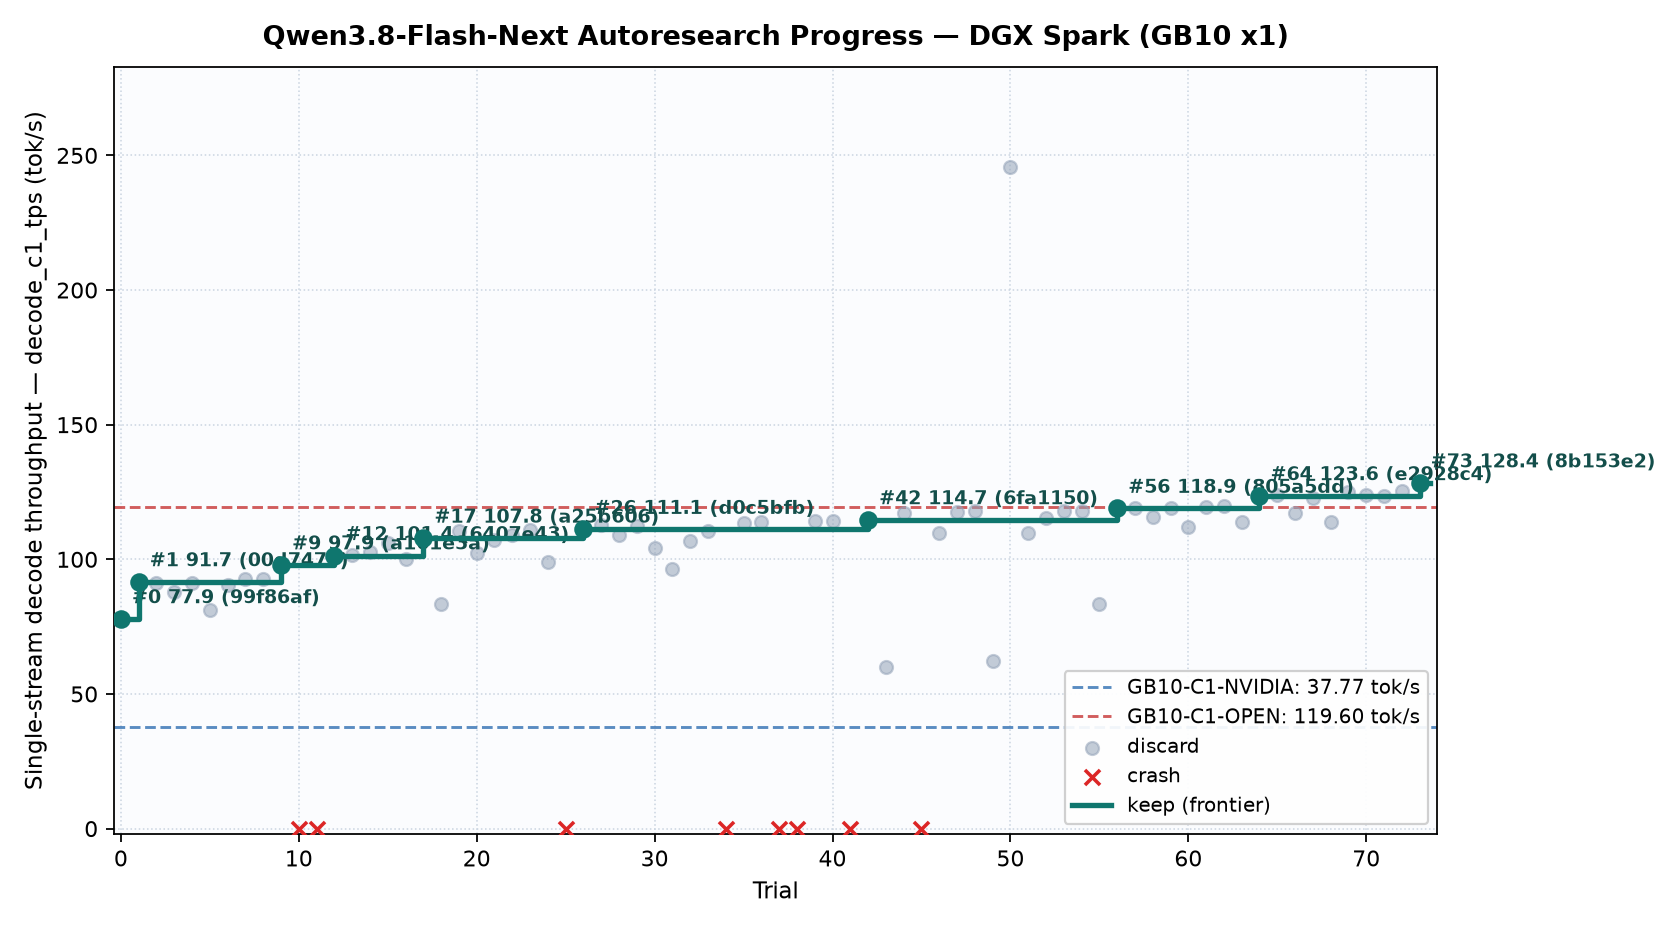
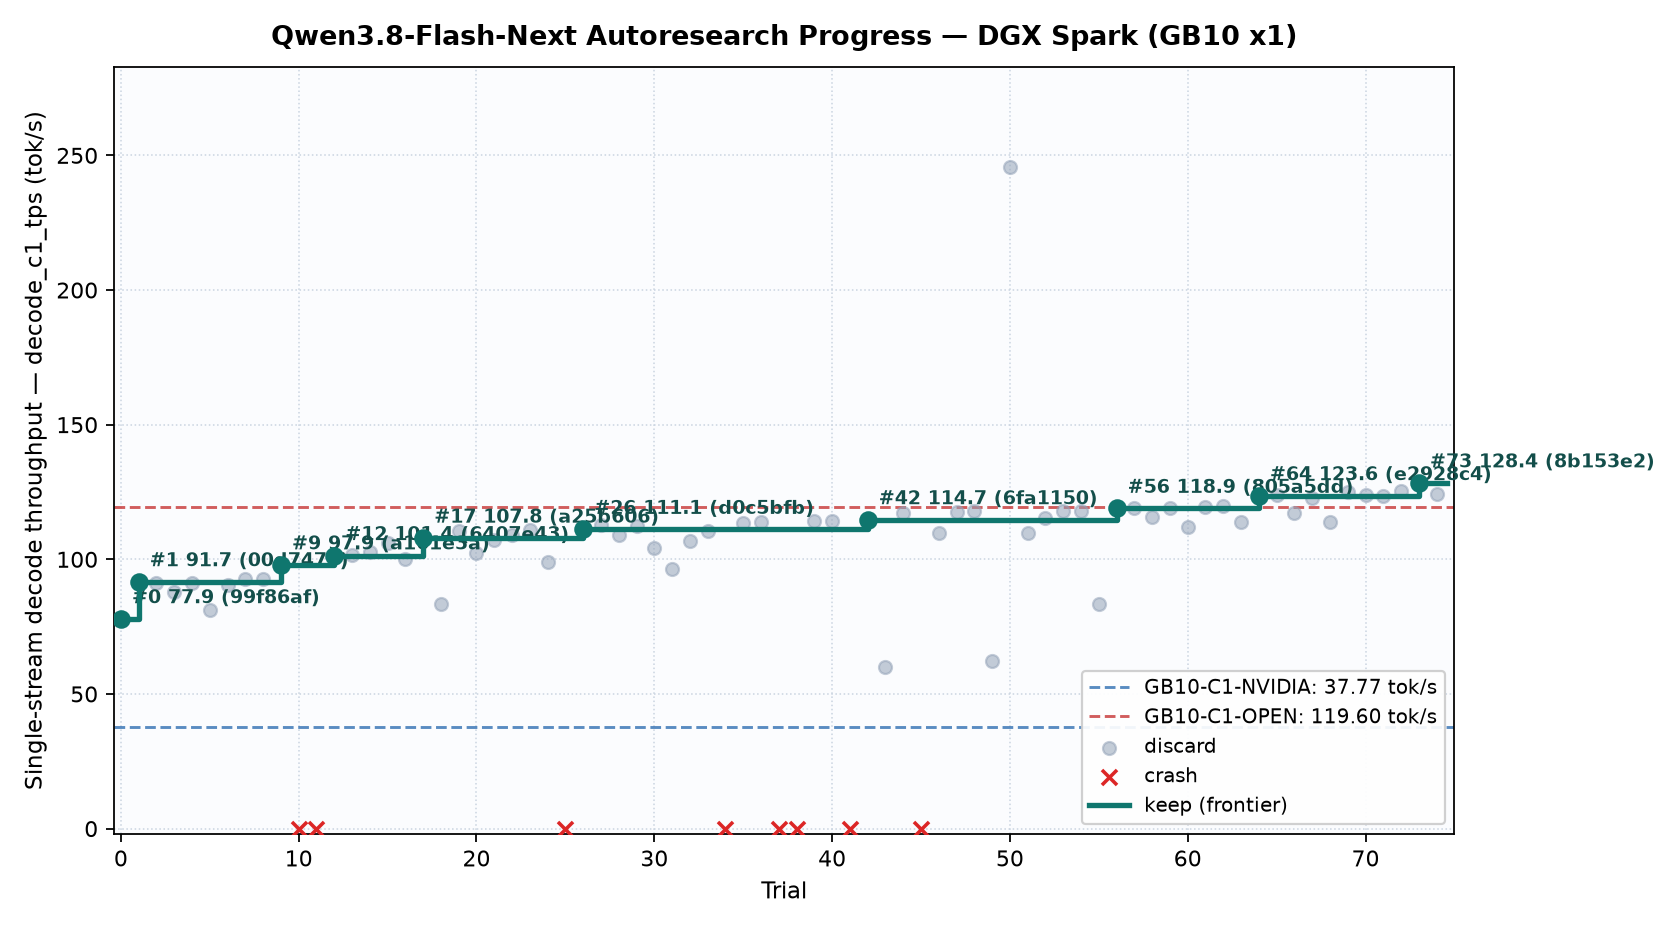
spark trial 74: discard

diff --git a/records/research-log.md b/records/research-log.md
@@ -103,3 +103,4 @@ Deprioritized: **3-bit expert weights** (Hibana +43% but GPQA -0.3, LCB -2.3; on
 | 2026-11-21 04:23 | 71 (new stack) | <https://github.com/vllm-project/vllm/commit/664dfcd4>, <https://github.com/sgl-project/sglang/commit/2b248971>, <https://github.com/NVIDIA/TensorRT-LLM/commit/86852b24>, <https://github.com/ggml-org/llama.cpp/commit/374d90a9>, <https://github.com/ashhart/TensorFold/commit/9ba855b3> | Six-engine check (`vllm` `664dfcd4`/`0e1d945b`, `sglang` `2b248971` `#46210` EAGLE draft capture checks, `TensorRT-LLM` `86852b24`/`257899b7`, `llama.cpp` `374d90a9`/`98709fd8`, `TensorFold` `9ba855b3`, `hibana` `d474b74d`): Trial 70 (`-t70`, `hash_match=1`) cut `code-c1` rounds `46->43` (`-6.5%`) and `nsys` proved our bit-exact tree verify kernels add `<0.09 ms/rd` (`fn_gdn_rows_late_tree` +2 us, `fn_attn_fused_ahead_gate_tree_paged` ~0 us, path compaction 19 us), while fixed `STOP_THR=0.20`/`LEAF_THR=0.18`/`B2_THR=0.20` over-drafted high-acc rounds (`467->529` drafts, undoing Trial 64's renewal stop `dyn_thr ~ 0.65`) and added Branch-2 `forwardHead`+`streamSync` overhead; pricing zero-MTP-cost `stop_token` and top-2 sibling leaves via the exact live round renewal rate `R_cur = (1+E_tot)/C_tot` (`c_ver/(c_ver+c_mtp) ~ 0.64/0.52` + zero-cost `BM=16` leaf swap + `STOP_ALPHA=3.5`, `TREE_MODE=1` zero extra MTP steps) beat Trial 69 across 6 diverse coding prompts (`ALL6 89.50->92.34` `+3.17%`, `HI3 100.14->103.95` `+3.80%`, `r=473->435` `-8.0%`, `p5 122.6->127.7` `+4.2%`, 100% identical SHAs). | Adopted in trial 71 (`-t71`): renewal-coupled speculative tree proposer (`R_cur=(1+E_tot)/C_tot`, `TREE_MODE=1`, `STOP_ALPHA=3.5`, `STOP_MULT=0.64`, `STOP_THR=0.18`, `LEAF_MULT=0.52`, `LEAF_THR=0.16`, `LEAF_SWAP=1.02`) on `-t70` bit-exact tree engine (`hash_match=1`). |
 | 2026-11-21 07:41 | 72 (new stack) | <https://github.com/vllm-project/vllm/commit/77c887b4>, <https://github.com/sgl-project/sglang/commit/a034bb57>, <https://github.com/NVIDIA/TensorRT-LLM/commit/15419029>, <https://github.com/ggml-org/llama.cpp/commit/91979450>, <https://github.com/ashhart/TensorFold/commit/87c41b05> | Six-engine check (`vllm` `77c887b4`, `sglang` `84c9e767`/`a034bb57` `#51676` dflash megakernel, `TensorRT-LLM` `15419029`, `llama.cpp` `91979450`, `TensorFold` `87c41b05`, `hibana` `d474b74d`): Warmed `nsys` critical-path audit of Trial 69 (`-t69`, `125.05` C1) exposed four pure 100% bit-exact hardware wins (while rejecting pruned `W1g64` `-1.8%..-31%`, suffix-copy ext/root/graft `-0.8%`, `MTP_TOPK<10` `-0.5%..-6.5%`, `SHARED_EARLY=1` `-0.3%`, and `MTP_NVFP4=fch` `+4` rounds via bracketed ABBA): (1) `topk_fast` (`tf_route_topk_plan_512`, `70.5 ms` crit -> `1.91x` faster `16.34->8.56 us` `diffs=0` via pre-wait `sh_cnt` clear, unrolled `RSK==4`, per-lane top-1 cache, parallel `tf_exp` with exact-order `__fadd_rn`, and packed `u64` prefix scan); (2) direct `keep.proj` write from `in_proj` + fused pre-wait `61.4 KB` `keep.hist` copy in `fn_gdn_front_log` eliminating `72` `cuMemcpyDtoD` calls/round (`~18 MB/rd`) and the `2.7 us x 36` PDL break; (3) state-first PDL in `fn_gdn_rows_late` prefetching `3.15 MB` `state_in` before `griddepcontrol.wait`; (4) `tf_qmmf_bf11_hc_upmix_16` `STAGES=3` (`20,352B` SMEM, `24.40 vs 25.07 us`). Bracketed 6-config ABBA vs `-t69`: `ALL5 21.704->21.376s` (`+1.53%`, `91.92->93.33`), `HI3 106.77->108.12`, `p4 118.9->120.8` (`-52 ms`), `C4 139.72->141.53` (`+1.30%`), 100% identical SHAs and rounds (`r=380`). | Adopted in trial 72 (`-t72d` on `-t69` base): `topk_fast`, direct `keep.proj` + fused pre-wait `keep.hist`, state-first GDN PDL, `bf11_hc_upmix_16 STAGES=3` (`SHARED_EARLY=0`, `GDN_DIRECT_KEEP=1`, `MTP_NVFP4=0`, `hash_match=1`). |
 | 2026-11-21 08:57 | 73 (new stack) | <https://github.com/vllm-project/vllm/commit/c98006ee>, <https://github.com/sgl-project/sglang/commit/9caefef2>, <https://github.com/NVIDIA/TensorRT-LLM/commit/fc489fc6>, <https://github.com/ggml-org/llama.cpp/commit/29b52d39>, <https://github.com/ashhart/TensorFold/commit/46c6ee22> | Six-engine check (`vllm` `c98006ee`, `sglang` `9caefef2`/`e7c382c1` `#50195` FP4 MoE, `TensorRT-LLM` `fc489fc6`/`752e6b37`, `llama.cpp` `29b52d39`/`e3c3f666`, `TensorFold` `46c6ee22`/`b904f972`, `hibana` `d474b74d`): Trial 72 (`-t72d`) set all-time bit-exact records (`c1=125.37`, `ttft=0.152`, `hash_match=1`); `nsys` `qmmf_kernel` shape audit exposed MTP `M=1` `INT6`/`MXFP8` projections (`q_proj`, `o_proj`, `fc_embed`, `shared_gu/down`, `hc.down`, `mixer.down`) running `BM=16 ST=4` split-K MMA + `reduce_kernel` at `40-165 GB/s`, while `fn_w2_rescore_best` ran 64 BF16 rescores on 1 CTA (`30.6 us x 451`). Component-isolated 7-config ABBA on exact `ROUTER_BF12=0` (`hash_match=1`) SHAs rejected unsorted Two-Tier `W1g64` (`+19..+22` rds), 1-warp `BF11` sequential router (`+578 ms`, 0 ULP diff), `MTP_S5=1` (`+58 ms`), and `MTP_ATTN_SK=4/8` (`+20 ms`), while proving cooperative weights-first-PDL zero-`I2F` (`0x43000000u`) in-CTA split-K `M=1` GEMV (`1x8` for `N<512` `hc.down`/`mixer.down` `-79 ms`, `1x4` for `512<=N<=4096`, `4x1` for `N>4096` `q_proj` `-208 ms`) + 64-CTA parallel `TF_FLASHNEXT_W2_MULTI=1` sweeps all 5 prompts (`ALL5 22.594->22.404s` `-190 ms`, `HI3 100.51->102.21` `+1.69%`, `p4 3.244->3.222s` on identical `r=49`, 100% exact SHAs). | Adopted in trial 73 (`-t73` on `-t72d` base): cooperative zero-`I2F` in-CTA split-K `M=1` `INT6`/`MXFP8` GEMV (`TF_QMMF_M1_GEMV=2`, `1x8`/`1x4`/`4x1`, `MIN_N=64`, `MAX_N=16384`) + 64-CTA `TF_FLASHNEXT_W2_MULTI=1` (`ROUTER_BF11=0`, `MTP_S5=0`, `MTP_ATTN_SK=0`, `hash_match=1`). |
+| 2026-11-21 11:17 | 74 (new stack) | <https://github.com/vllm-project/vllm/commit/2f170a0f>, <https://github.com/sgl-project/sglang/commit/5b03592a>, <https://github.com/NVIDIA/TensorRT-LLM/commit/ea1090d4>, <https://github.com/ggml-org/llama.cpp/commit/29b52d39>, <https://github.com/ashhart/TensorFold/commit/37fa51d2> | Six-engine check (`vllm` `2f170a0f` `#69023` DSpark MoE, `sglang` `5b03592a` `#51961` vocab-tiled block-verify / `fadfdc42`, `TensorRT-LLM` `ea1090d4` `#22698`, `llama.cpp` `29b52d39`/`e3c3f666`, `TensorFold` `37fa51d2`, `hibana` `d474b74d`): Trial 73 (`-t73`) won `keep` at `128.37 tok/s` (`+3.85%`, `c4=175.94`, `c8=236.76`, `92.75 GiB`, `hash_match=1`), and `nsys --cuda-graph-trace=node` (`98.55%` GPU busy) showed the entire MTP head now costs only `8.0%` (`0.75 ms/step`) while target verify costs `~58 ms/rd` (`77x` higher). Bracketed ABBA across 6 coding prompts + `C4/C8/C16` rejected `BF10P` (`+25%` compute-bound), `OUT_BF12=1` (`+119 ms`), `BF12_OUT_SK4=1` (SHA drift), `MTP_INT6=0` (`+380 ms`), `MTP_W2=1` (`+240 ms`), and `FP8_FAST=1` (`+13 ms`), while proving exact Block-FP8 MTP routed experts upgraded with `L2::256B` + `PDL` in `fp8_experts.cu` + `STOP_ALPHA=3.6` cuts verify rounds (`ALL6 461->440`, `+1.81%`; `HI4 +1.67%`; `p4 49->45 rds`, `123.9->131.3` `+6.0%`) for `+1.02 GiB` VRAM, and fixed batched `W1g64` in `Group.run` (`fn_w1g64_gemv_batch{4,8,16}`, disjoint `po_base`, `po->done_cnt=0u`, 16B greedy gather) lifts `C4 +1.8%..+3.7%` and `C8 +1.9%..+2.9%` at 100% identical SHAs. | Adopted in trial 74 (`-t74b` on `-t73` base): `L2::256B`+`PDL` Block-FP8 MTP routed experts (`TF_FLASHNEXT_MTP_EXPERTS=fp8`), `TF_FLASHNEXT_STOP_ALPHA=3.6`, and batched `W1g64` `Group.run` (`TF_FLASHNEXT_GROUP_W1=1`, `TF_FP8_FAST=0`, `TF_FLASHNEXT_OUT_BF12=0`, `hash_match=1`). |
